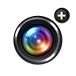
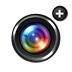
tweak size of camera+ button

diff --git a/theme/snapr/css/main.css b/theme/snapr/css/main.css
@@ -5327,8 +5327,8 @@ body.browser-testing .ps-caption-bottom {
   background-image: url('../gfx/camplus.png') !important;
   background-repeat: no-repeat;
   background-position: center!important;
-  width: 38px;
-  height: 38px;
+  width: 36px;
+  height: 36px;
   float: right;
   -moz-border-radius: 6px !important;
   -webkit-border-radius: 6px !important;

diff --git a/theme/snapr/css/pages.less b/theme/snapr/css/pages.less
@@ -1133,8 +1133,8 @@
     background-image: url('../gfx/camplus.png')!important;
     background-repeat: no-repeat;
     background-position: center!important;
-    width: 38px;
-    height: 38px;
+    width: 36px;
+    height: 36px;
     float: right;
     .corner-all(@corner-general-rounded)!important;
     span{
